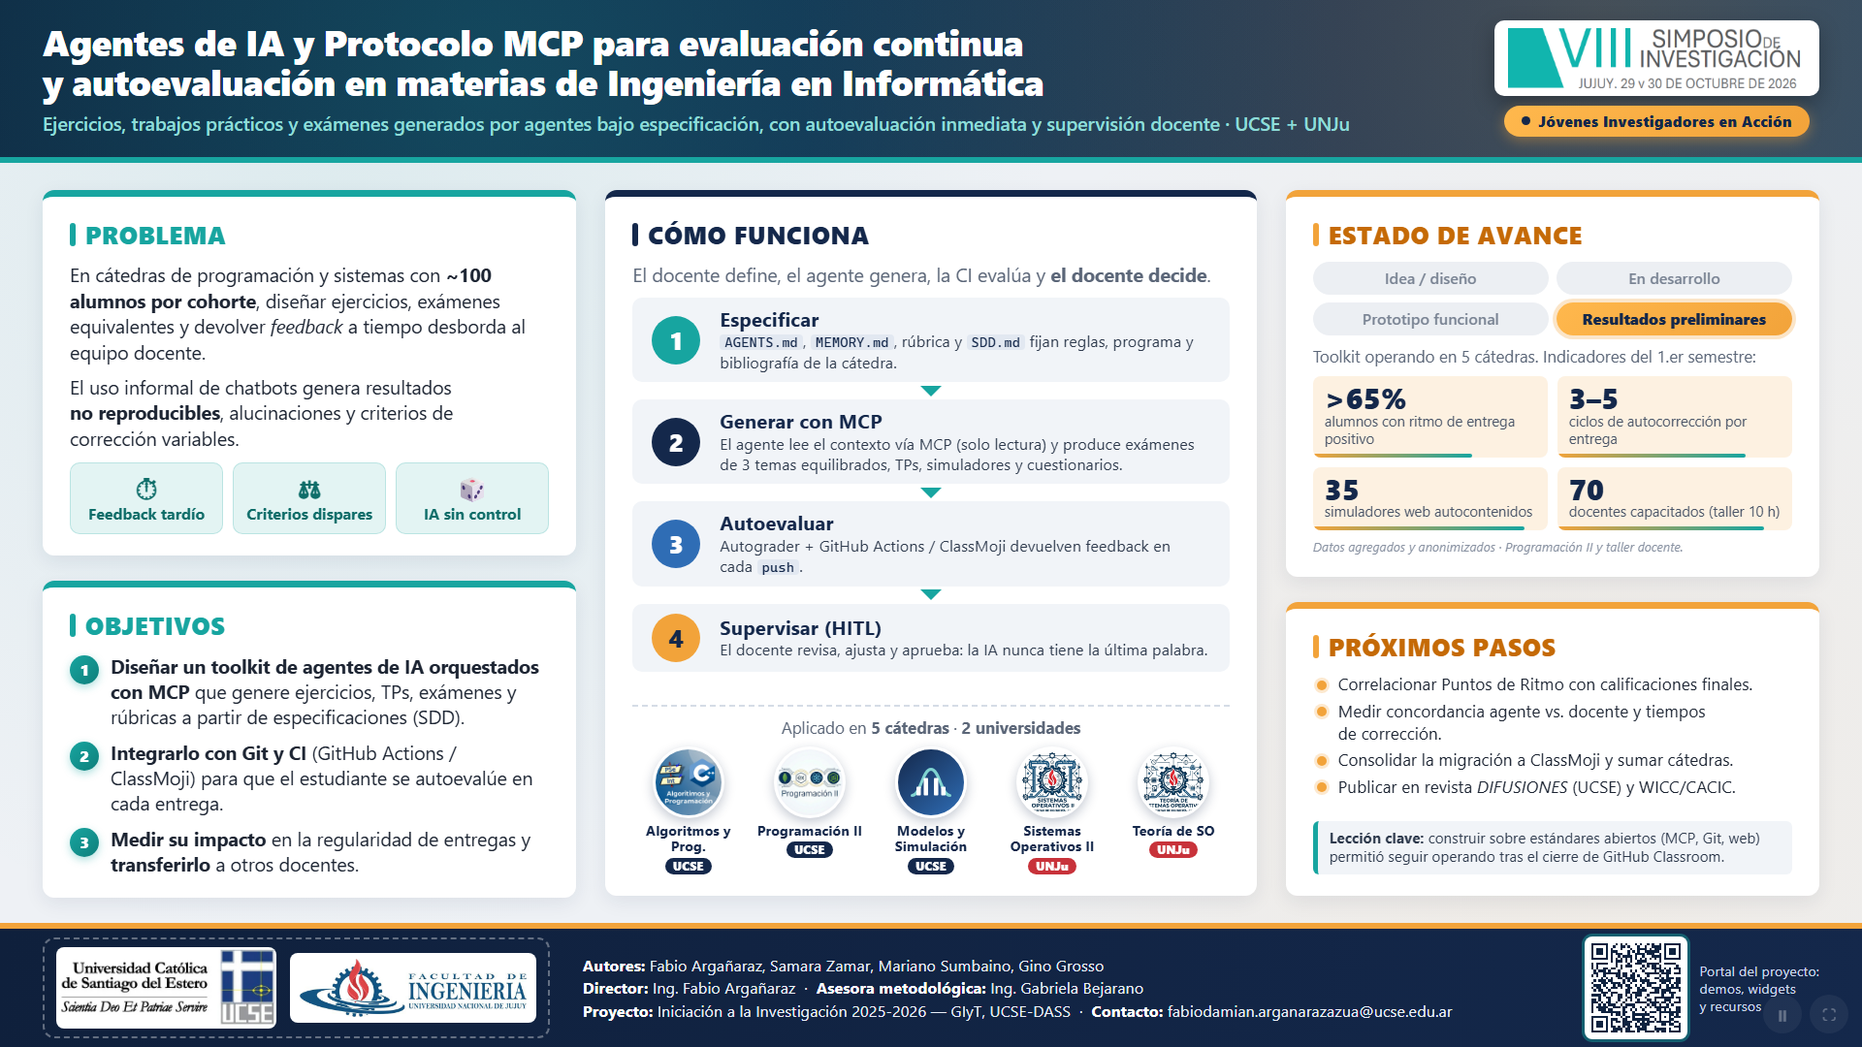
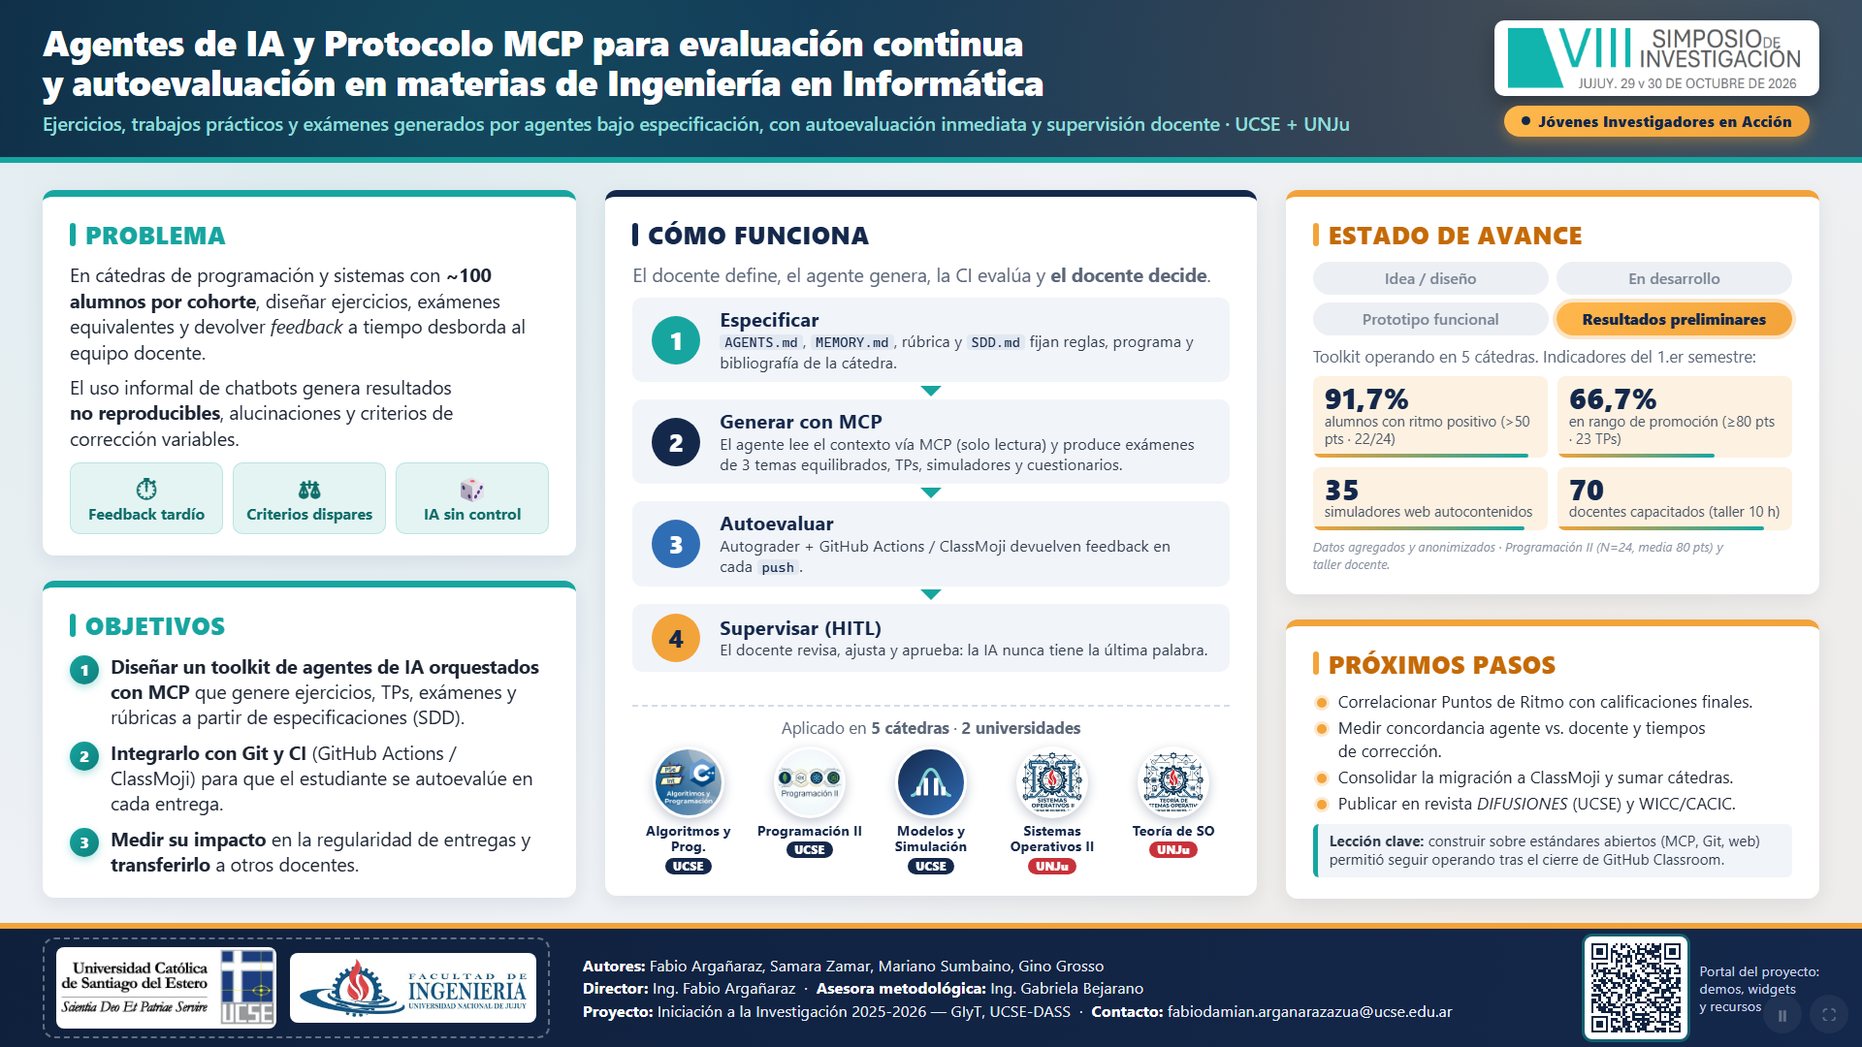
feat: actualizar metricas de Puntos de Ritmo del 1.er semestre (91,7% ritmo positivo, 66,7% promocion, N=24, 23 TPs)

diff --git a/presentacion/index.html b/presentacion/index.html
@@ -459,13 +459,13 @@ void calcularPromedio(int notas[], int n, float prom) {
               </ul>
             </header>
             <div class="kpis">
-              <div class="kpi"><b>&gt;65%</b>
-                <p>de los estudiantes con <strong>ritmo de entrega positivo</strong> (inicio temprano)</p><i
-                  class="kpi-meter" style="--w:68%"></i>
+              <div class="kpi"><b>91,7%</b>
+                <p>sostuvo <strong>ritmo de entrega positivo</strong> (&gt;50 pts · 22/24 alumnos; <strong>66,7%</strong> en promoción ≥80 pts)</p><i
+                  class="kpi-meter" style="--w:92%"></i>
               </div>
-              <div class="kpi"><b>3–5</b>
-                <p>ciclos de <strong>autocorrección</strong> (<code>push → feedback → fix</code>) por entrega</p><i
-                  class="kpi-meter" style="--w:82%"></i>
+              <div class="kpi"><b>23 <small>TPs</small></b>
+                <p>micro-entregas en el 1.er semestre (M1+M2) con <strong>3–5 ciclos</strong> de autocorrección y media de <strong>80 pts</strong></p><i
+                  class="kpi-meter" style="--w:85%"></i>
               </div>
               <div class="kpi"><b>≈0</b>
                 <p>entregas con <strong>errores fatales de compilación</strong> gracias al autograding</p><i
@@ -484,14 +484,79 @@ void calcularPromedio(int notas[], int n, float prom) {
                   class="kpi-meter" style="--w:100%"></i>
               </div>
             </div>
-            <p class="foot-note">Datos agregados y anonimizados (Programación II, 1.er semestre 2026 y taller docente).
-              Análisis inferencial en curso. ↓ lecciones aprendidas</p>
+            <p class="foot-note">Datos agregados y anonimizados (Programación II, 1.er semestre 2026: N = 24, 23 entregas y taller docente).
+              ↓ desglose de Puntos de Ritmo y lecciones aprendidas</p>
           </div>
           <aside class="notes">
-            (25 s) ¿Qué logramos hasta ahora? Más del 65 % de los estudiantes de Programación II arrancó temprano sus
-            trabajos; cada uno hizo entre tres y cinco ciclos de autocorrección antes de entregar; y prácticamente
-            desaparecieron las entregas que no compilaban. Además transferimos todo: 35 simuladores web y un taller de
-            diez horas al que asistieron 70 docentes de la UCSE y la UNJu.
+            (25 s) ¿Qué logramos en el primer semestre? El 91,7 % de los estudiantes de Programación II —22 de 24— sostuvo un ritmo de entrega positivo por encima de los 50 puntos a lo largo de 23 micro-entregas, con un promedio de 80 puntos y dos tercios del curso en rango de promoción. Además, en el cierre del segundo módulo el 100 % entregó en forma anticipada. Prácticamente desaparecieron las entregas que no compilaban y transferimos 35 simuladores web y un taller de diez horas a 70 docentes de UCSE y UNJu.
+          </aside>
+        </section>
+
+        <section>
+          <div class="slide">
+            <header class="s-head"><span class="kicker">Respaldo · Telemetría 1.er Semestre (M1 + M2)</span>
+              <h2>Puntos de Ritmo en <mark>Programación II</mark> <small>(N = 24 · 23 entregas · anonimizado)</small></h2>
+            </header>
+            <div class="ritmo-wrap">
+              <div class="ritmo-summary">
+                <article class="r-tier r-tier--promo">
+                  <div class="r-head"><b>66,7%</b><span>16 / 24 alumnos</span></div>
+                  <h3>Promoción por Ritmo (≥ 80 pts)</h3>
+                  <p>6 estudiantes superaron los 100 pts (hasta <b>110 pts</b>) sumando bonos de entrega temprana (<code>+2</code>) y talleres (<code>T1/T2</code>).</p>
+                </article>
+                <article class="r-tier r-tier--reg">
+                  <div class="r-head"><b>25,0%</b><span>6 / 24 alumnos</span></div>
+                  <h3>Regularidad Sostenida (50–79 pts)</h3>
+                  <p>Recuperaron penalizaciones iniciales mediante el protocolo de re-entrega con defensa en video y <em>merge</em> de correcciones.</p>
+                </article>
+                <article class="r-tier r-tier--low">
+                  <div class="r-head"><b>8,3%</b><span>2 / 24 alumnos</span></div>
+                  <h3>Alerta Temprana (&lt; 50 pts)</h3>
+                  <p>Detección automática de déficit de ritmo para activar tutoría pedagógica oportuna antes del cierre anual.</p>
+                </article>
+              </div>
+              <div class="ritmo-chart" aria-label="Distribución anonimizada de Puntos de Ritmo de los 24 estudiantes">
+                <div class="rc-top">
+                  <span>Distribución individual anonimizada (<code>EST_01</code> a <code>EST_24</code>) · Media: <b>80,0 pts</b> · Mediana: <b>85,5 pts</b></span>
+                  <span class="rc-badge">Cierre M2 (últimas 3 entregas): <b>100% entregas anticipadas (+2 pts)</b></span>
+                </div>
+                <div class="rc-bars">
+                  <div class="rc-bar promo" style="--h:100%"><span>110</span></div>
+                  <div class="rc-bar promo" style="--h:95%"><span>105</span></div>
+                  <div class="rc-bar promo" style="--h:94%"><span>103</span></div>
+                  <div class="rc-bar promo" style="--h:94%"><span>103</span></div>
+                  <div class="rc-bar promo" style="--h:93%"><span>102</span></div>
+                  <div class="rc-bar promo" style="--h:92%"><span>101</span></div>
+                  <div class="rc-bar promo" style="--h:90%"><span>99</span></div>
+                  <div class="rc-bar promo" style="--h:88%"><span>97</span></div>
+                  <div class="rc-bar promo" style="--h:83%"><span>91</span></div>
+                  <div class="rc-bar promo" style="--h:81%"><span>89</span></div>
+                  <div class="rc-bar promo" style="--h:80%"><span>88</span></div>
+                  <div class="rc-bar promo" style="--h:78%"><span>86</span></div>
+                  <div class="rc-bar promo" style="--h:77%"><span>85</span></div>
+                  <div class="rc-bar promo" style="--h:76%"><span>84</span></div>
+                  <div class="rc-bar promo" style="--h:75%"><span>83</span></div>
+                  <div class="rc-bar promo" style="--h:73%"><span>80</span></div>
+                  <div class="rc-bar reg" style="--h:57%"><span>63</span></div>
+                  <div class="rc-bar reg" style="--h:55%"><span>61</span></div>
+                  <div class="rc-bar reg" style="--h:55%"><span>60</span></div>
+                  <div class="rc-bar reg" style="--h:53%"><span>58</span></div>
+                  <div class="rc-bar reg" style="--h:50%"><span>55</span></div>
+                  <div class="rc-bar reg" style="--h:49%"><span>54</span></div>
+                  <div class="rc-bar alert" style="--h:38%"><span>42</span></div>
+                  <div class="rc-bar alert" style="--h:20%"><span>22</span></div>
+                </div>
+                <div class="rc-legend">
+                  <span><i class="dot-promo"></i> Promoción ≥80 pts (16)</span>
+                  <span><i class="dot-reg"></i> Regular 50–79 pts (6)</span>
+                  <span><i class="dot-alert"></i> Alerta &lt;50 pts (2)</span>
+                  <span>Umbral de regularidad: <b>50 pts</b> · Base inicial: <b>100 pts</b> (+5 T1, +5 T2, +2 entrega temprana, -5/-10 mora)</span>
+                </div>
+              </div>
+            </div>
+          </div>
+          <aside class="notes">
+            Desglose anonimizado de los 24 estudiantes del primer semestre en Programación II a lo largo de las 23 entregas de los módulos 1 y 2. 22 de 24 estudiantes (91,7 %) sostuvieron la regularidad por encima de los 50 puntos, y 16 de 24 (66,7 %) se ubicaron en rango de promoción (80 puntos o más). En las últimas tres entregas del Módulo 2 (junio), los 24 estudiantes entregaron de forma anticipada (+2 puntos).
           </aside>
         </section>
 

diff --git a/presentacion/css/tema.css b/presentacion/css/tema.css
@@ -1100,6 +1100,174 @@ table.sec td {
   background: linear-gradient(90deg, var(--teal), var(--orange));
 }
 
+/* ---------- 8.2 · Desglose Puntos de Ritmo ---------- */
+.ritmo-wrap {
+  display: flex;
+  flex-direction: column;
+  gap: 20px;
+  flex: 1;
+}
+
+.ritmo-summary {
+  display: grid;
+  grid-template-columns: repeat(3, 1fr);
+  gap: 20px;
+}
+
+.r-tier {
+  background: var(--card);
+  border-radius: var(--radius);
+  padding: 20px 24px;
+  box-shadow: 0 6px 18px rgb(20 40 75 / 0.08);
+  border-top: 7px solid var(--teal);
+  display: grid;
+  gap: 6px;
+}
+
+.r-tier--promo {
+  border-top-color: #10b981;
+}
+
+.r-tier--reg {
+  border-top-color: var(--teal);
+}
+
+.r-tier--low {
+  border-top-color: #ef4444;
+}
+
+.r-head {
+  display: flex;
+  align-items: baseline;
+  justify-content: space-between;
+}
+
+.r-head b {
+  font-size: 2.3rem;
+  font-weight: 900;
+  color: var(--navy);
+  line-height: 1;
+}
+
+.r-tier--promo .r-head b { color: #059669; }
+.r-tier--low .r-head b { color: #dc2626; }
+
+.r-head span {
+  font-size: 0.86rem;
+  font-weight: 800;
+  padding: 3px 10px;
+  border-radius: 999px;
+  background: #e2e8f0;
+  color: var(--navy);
+}
+
+.r-tier h3 {
+  font-size: 1.06rem;
+  color: var(--navy);
+}
+
+.r-tier p {
+  font-size: 0.88rem;
+  color: #475569;
+  line-height: 1.35;
+}
+
+.ritmo-chart {
+  background: var(--card);
+  border-radius: var(--radius);
+  padding: 20px 26px;
+  box-shadow: 0 6px 18px rgb(20 40 75 / 0.08);
+  display: flex;
+  flex-direction: column;
+  justify-content: space-between;
+  gap: 14px;
+  flex: 1;
+}
+
+.rc-top {
+  display: flex;
+  justify-content: space-between;
+  align-items: center;
+  font-size: 0.9rem;
+  color: #334155;
+  flex-wrap: wrap;
+  gap: 10px;
+}
+
+.rc-badge {
+  background: var(--teal-soft);
+  color: #0e6d69;
+  padding: 4px 14px;
+  border-radius: 999px;
+  font-size: 0.84rem;
+}
+
+.rc-bars {
+  display: grid;
+  grid-template-columns: repeat(24, 1fr);
+  gap: 8px;
+  align-items: end;
+  height: 210px;
+  padding-top: 22px;
+  border-bottom: 2px solid #cbd5e1;
+}
+
+.rc-bar {
+  height: var(--h, 70%);
+  border-radius: 6px 6px 0 0;
+  position: relative;
+  display: flex;
+  justify-content: center;
+  transition: scale 0.25s var(--ease-out);
+  transform-origin: bottom center;
+}
+
+.rc-bar:hover {
+  scale: 1.06 1.04;
+}
+
+.rc-bar span {
+  position: absolute;
+  top: -20px;
+  font-size: 0.72rem;
+  font-weight: 800;
+  color: var(--navy);
+}
+
+.rc-bar.promo {
+  background: linear-gradient(180deg, #10b981, #059669);
+}
+
+.rc-bar.reg {
+  background: linear-gradient(180deg, #22c1bc, var(--teal));
+}
+
+.rc-bar.alert {
+  background: linear-gradient(180deg, #f87171, #dc2626);
+}
+
+.rc-legend {
+  display: flex;
+  gap: 22px;
+  align-items: center;
+  flex-wrap: wrap;
+  font-size: 0.82rem;
+  color: #475569;
+}
+
+.rc-legend i {
+  display: inline-block;
+  width: 11px;
+  height: 11px;
+  border-radius: 3px;
+  margin-right: 5px;
+  vertical-align: -1px;
+}
+
+.dot-promo { background: #10b981; }
+.dot-reg { background: var(--teal); }
+.dot-alert { background: #dc2626; }
+
 .lessons {
   display: grid;
   grid-template-columns: 1fr 1fr;
@@ -1491,6 +1659,20 @@ table.sec td {
     animation: meterGrow 0.9s var(--ease-out) 0.35s both;
   }
 
+  section.present .ritmo-summary > .r-tier,
+  section.present .ritmo-chart {
+    animation: cardCascade 0.6s var(--ease-out) both;
+  }
+
+  section.present .ritmo-summary > :nth-child(1) { animation-delay: 0.10s; }
+  section.present .ritmo-summary > :nth-child(2) { animation-delay: 0.18s; }
+  section.present .ritmo-summary > :nth-child(3) { animation-delay: 0.26s; }
+  section.present .ritmo-chart { animation-delay: 0.32s; }
+
+  section.present .rc-bar {
+    animation: barRise 0.7s var(--ease-out) 0.38s both;
+  }
+
   /* Micro-animaciones ambientales continuas */
   .orb-1 {
     animation: orbFloat 8s ease-in-out infinite alternate;
@@ -1545,6 +1727,11 @@ body.motion-paused *::after {
 @keyframes meterGrow {
   from { scale: 0 1; }
   to { scale: 1 1; }
+}
+
+@keyframes barRise {
+  from { scale: 1 0; opacity: 0.3; }
+  to { scale: 1 1; opacity: 1; }
 }
 
 @keyframes orbFloat {

diff --git a/poster/index.html b/poster/index.html
@@ -1024,16 +1024,16 @@
             </ul>
             <p class="small">Toolkit operando en 5 cátedras. Indicadores del 1.er semestre:</p>
             <div class="kpis">
-              <div class="kpi"><b>&gt;65%</b><span>alumnos con ritmo de entrega positivo</span><i class="kpi-bar"
-                  style="--w:68%"></i></div>
-              <div class="kpi"><b>3–5</b><span>ciclos de autocorrección por entrega</span><i class="kpi-bar"
-                  style="--w:80%"></i></div>
+              <div class="kpi"><b>91,7%</b><span>alumnos con ritmo positivo (&gt;50 pts · 22/24)</span><i class="kpi-bar"
+                  style="--w:92%"></i></div>
+              <div class="kpi"><b>66,7%</b><span>en rango de promoción (≥80 pts · 23 TPs)</span><i class="kpi-bar"
+                  style="--w:67%"></i></div>
               <div class="kpi"><b>35</b><span>simuladores web autocontenidos</span><i class="kpi-bar"
                   style="--w:90%"></i></div>
               <div class="kpi"><b>70</b><span>docentes capacitados (taller 10 h)</span><i class="kpi-bar"
                   style="--w:88%"></i></div>
             </div>
-            <p class="note">Datos agregados y anonimizados · Programación II y taller docente.</p>
+            <p class="note">Datos agregados y anonimizados · Programación II (N=24, media 80 pts) y taller docente.</p>
           </section>
 
           <section class="card card--orange anim-card" style="--d: 0.34s">

diff --git a/Ficha_Participacion_y_Guion_Pitch.md b/Ficha_Participacion_y_Guion_Pitch.md
@@ -24,8 +24,11 @@
 - **Necesidades técnicas:** Conexión a internet para las demos web opcionales (se lleva versión local en navegador e imágenes de respaldo en pendrive; no requiere audio).
 - **Correo institucional de contacto:** `fabiodamian.arganarazazua@ucse.edu.ar`
 
-### Resumen (278 palabras — dentro del rango de 250 a 300 palabras)
-En las asignaturas de programación y sistemas de Ingeniería en Informática, brindar retroalimentación formativa oportuna y diseñar evaluaciones equivalentes para cohortes cercanas a los cien estudiantes supera con frecuencia la disponibilidad horaria de los equipos docentes. Al mismo tiempo, el uso informal de chatbots comerciales mediante *prompts* aislados introduce alucinaciones, falta de reproducibilidad y criterios dispares de corrección. Este proyecto tiene como objetivo diseñar, implementar y validar un ecosistema sociotécnico de evaluación continua y autoevaluación asistido por agentes de Inteligencia Artificial y el estándar abierto *Model Context Protocol* (MCP), preservando en todo momento la supervisión docente activa (*Human-in-the-Loop*). Metodológicamente, bajo un diseño de investigación-acción e Investigación Basada en el Diseño, se estructuró una arquitectura en tres capas: gobernanza contextual mediante archivos declarativos versionados (`AGENTS.md`, `MEMORY.md`, rúbricas analíticas y especificaciones *Spec-Driven Development*), interoperabilidad local de solo lectura mediante servidores MCP confinados bajo lineamientos OWASP, y flujos de autoevaluación continua en GitHub Actions y ClassMoji. El sistema fue desplegado y puesto a prueba en cinco asignaturas de dos universidades de Jujuy: *Algoritmos y Programación*, *Programación II* y *Modelos y Simulación* en la UCSE-DASS, y *Sistemas Operativos II* y *Teoría de los Sistemas Operativos* en la UNJu, alcanzando a alrededor de cien estudiantes. Los resultados preliminares muestran que más del 65 % de los estudiantes mantuvo un ritmo positivo de entregas tempranas, realizando entre 3 y 5 ciclos de autocorrección por trabajo y reduciendo prácticamente a cero las entregas con fallos de compilación. Asimismo, se transfirieron 35 simuladores web autocontenidos y se capacitó a 70 docentes universitarios en un taller práctico de diez horas reloj.
+### Biodata abreviada del expositor (para lectura de moderación)
+**Fabio Damián Argañaraz** es Ingeniero en Informática por la Universidad Nacional de Jujuy (UNJu), distinguido con la Medalla al Mejor Promedio de su promoción, desarrollador de software *Full Stack* y especialista en tecnología educativa (*EdTech*). Cuenta con más de nueve años de trayectoria docente en educación superior y formación profesional (UCSE, UNJu, UNTREF, Digital House y ADA School). Actualmente se desempeña como profesor de *Algoritmos y Programación*, *Programación II* y *Modelos y Simulación* en el Departamento Académico San Salvador de la UCSE, y como Jefe de Trabajos Prácticos de *Sistemas Operativos II* y *Teoría de los Sistemas Operativos* en la Facultad de Ingeniería de la UNJu. Es director del proyecto de Iniciación a la Investigación (GIyT, UCSE-DASS) sobre integración de Agentes de Inteligencia Artificial y el protocolo abierto MCP para evaluación formativa continua y autoevaluación en carreras de Ingeniería en Informática.
+
+### Resumen (284 palabras — dentro del rango de 250 a 300 palabras)
+En las asignaturas de programación y sistemas de Ingeniería en Informática, brindar retroalimentación formativa oportuna y diseñar evaluaciones equivalentes para cohortes cercanas a los cien estudiantes supera con frecuencia la disponibilidad horaria de los equipos docentes. Al mismo tiempo, el uso informal de chatbots comerciales mediante *prompts* aislados introduce alucinaciones, falta de reproducibilidad y criterios dispares de corrección. Este proyecto tiene como objetivo diseñar, implementar y validar un ecosistema sociotécnico de evaluación continua y autoevaluación asistido por agentes de Inteligencia Artificial y el estándar abierto *Model Context Protocol* (MCP), preservando en todo momento la supervisión docente activa (*Human-in-the-Loop*). Metodológicamente, bajo un diseño de investigación-acción e Investigación Basada en el Diseño, se estructuró una arquitectura en tres capas: gobernanza contextual mediante archivos declarativos versionados (`AGENTS.md`, `MEMORY.md`, rúbricas analíticas y especificaciones *Spec-Driven Development*), interoperabilidad local de solo lectura mediante servidores MCP confinados bajo lineamientos OWASP, y flujos de autoevaluación continua en GitHub Actions y ClassMoji. El sistema fue desplegado y puesto a prueba en cinco asignaturas de dos universidades de Jujuy: *Algoritmos y Programación*, *Programación II* y *Modelos y Simulación* en la UCSE-DASS, y *Sistemas Operativos II* y *Teoría de los Sistemas Operativos* en la UNJu, alcanzando a alrededor de cien estudiantes. Los resultados preliminares del primer semestre en *Programación II* (24 estudiantes a lo largo de 23 micro-entregas) muestran que el 91,7 % (22 de 24) sostuvo un ritmo positivo de entregas por encima del umbral de regularidad (media de 80 puntos y 66,7 % en rango de promoción), realizando entre 3 y 5 ciclos de autocorrección por trabajo y reduciendo prácticamente a cero las entregas con fallos de compilación. Asimismo, se transfirieron 35 simuladores web autocontenidos y se capacitó a 70 docentes universitarios en un taller práctico de diez horas reloj.
 
 ---
 
@@ -42,7 +45,7 @@ En las asignaturas de programación y sistemas de Ingeniería en Informática, b
    - *"Nuestra propuesta no es usar un chatbot libre, sino gobernar agentes de IA mediante una arquitectura de tres capas: primero, reglas pedagógicas en texto plano versionadas en Git (`AGENTS.md`, `MEMORY.md` y rúbricas); segundo, el protocolo abierto MCP en modo solo lectura para que el agente inspeccione el repositorio real de la cátedra; y tercero, supervisión humana activa: la IA propone borradores y el docente siempre decide."*
    - *"Pasamos de prompts sueltos a Desarrollo Guiado por Especificación (SDD): el agente primero presenta un contrato `SDD.md`, el docente lo aprueba, y recién ahí genera el paquete completo: exámenes de 3 temas equilibrados, resoluciones, rúbrica, tests y simuladores. Hoy opera en cinco materias: Algoritmos y Programación, Programación II y Modelos y Simulación en UCSE, y Sistemas Operativos II y Teoría de Sistemas Operativos en UNJu."*
 3. **Qué mostramos: Prediagnóstico y Resultados Preliminares (1:45 – 2:35 · Diapositivas 7 y 8):**
-   - *"Cuando audita código, el agente tiene prohibido regalar la solución: cita la línea exacta del error y formula una pregunta socrática para que el alumno se autorregule. En este primer semestre, más del 65 % de los estudiantes mantuvo ritmo positivo de entregas tempranas, con 3 a 5 ciclos de autocorrección por trabajo, reduciendo casi a cero las entregas que no compilan. Además creamos 35 simuladores web sin dependencias y capacitamos a 70 docentes de UCSE y UNJu en un taller de 10 horas."*
+   - *"Cuando audita código, el agente tiene prohibido regalar la solución: cita la línea exacta del error y formula una pregunta socrática para que el alumno se autorregule. En este primer semestre de Programación II, a lo largo de 23 micro-entregas, el 91,7 % de los estudiantes —22 de 24— sostuvo un ritmo de entrega positivo con una media de 80 puntos, dos tercios quedó en rango de promoción y redujimos casi a cero las entregas que no compilan. Además creamos 35 simuladores web sin dependencias y capacitamos a 70 docentes de UCSE y UNJu en un taller de 10 horas."*
 4. **Qué sigue (2:35 – 3:00 · Diapositiva 9):**
    - *"Nuestros próximos pasos son consolidar el análisis estadístico entre los Puntos de Ritmo y las notas finales, publicar los avances en la revista DIFUSIONES y WICC/CACIC, y medir en 2027 la concordancia entre agente y docente. La meta es clara: que el estudiante tenga feedback inmediato para aprender y el docente recupere tiempo para lo que la IA no puede hacer. Muchas gracias."*
 
